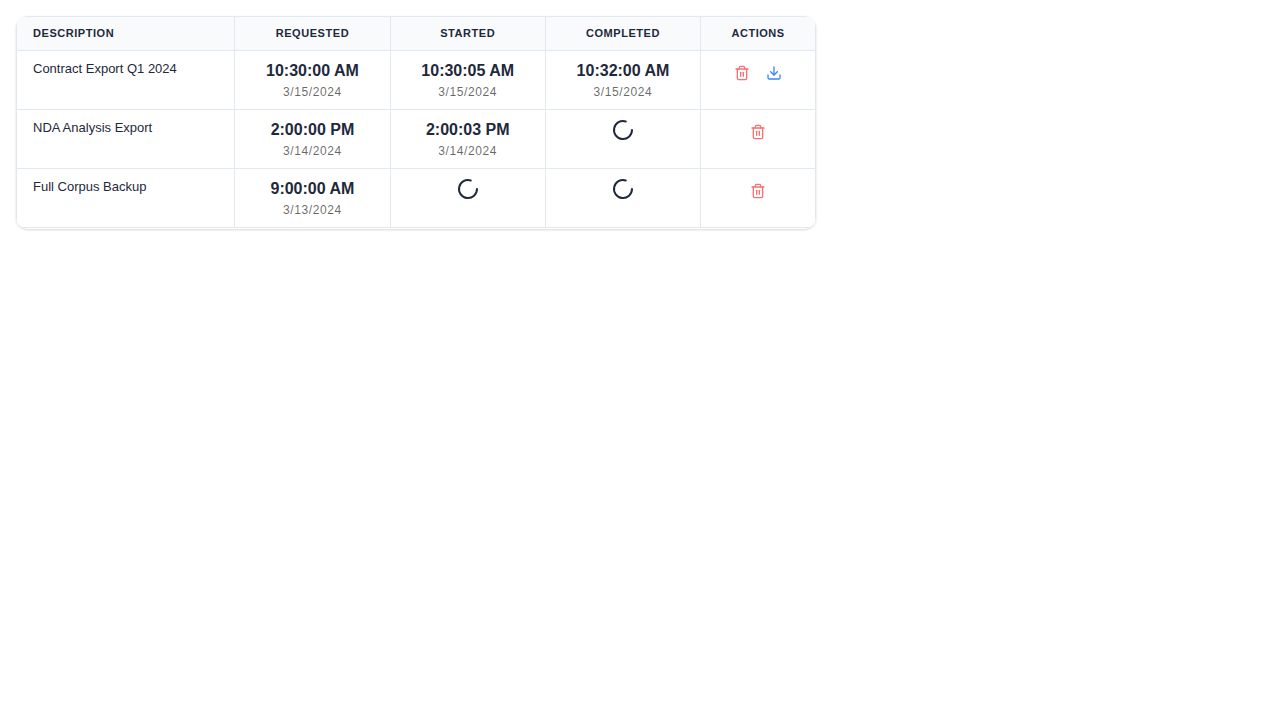
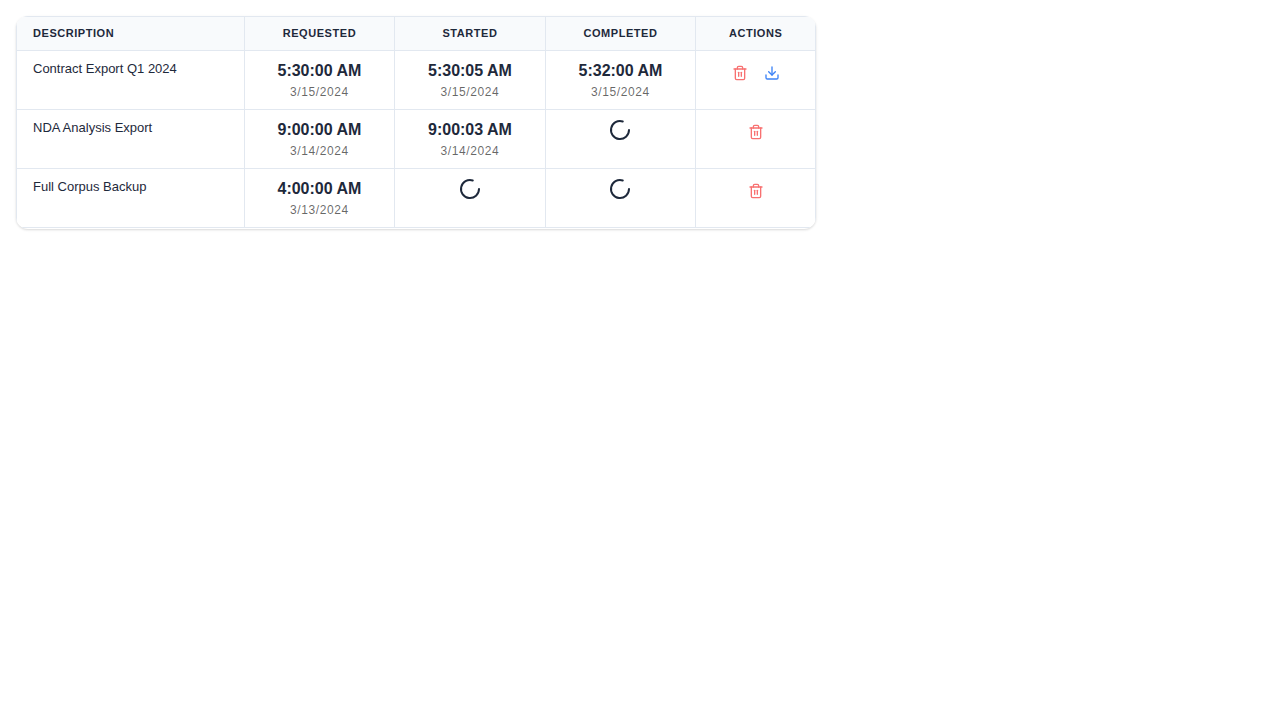
Address review: collapse multi-line comments, fix loading-overlay test, fix post-merge TS
CLAUDE.md prohibits multi-line comment blocks. Collapse the duplicated 5-line
networkStatus JSDoc on AnalysesCards, CorpusListView, DocumentCards, ExtractCards,
ExportList to one line each, FetchMoreFooter component JSDoc and the
FetchMoreFooterHarness test wrapper JSDoc to one line, and the 4-line JSX
comment over DocumentCards' LoadingOverlay to one line.

ExportList.ct.tsx 'shows loading overlay when loading' was passing
loading=true alongside the 3-item default fixture, which no longer satisfies
the new `loading && itemCount === 0` gate. Split into two tests: one for
the initial-load case (items=[]) and one negative test verifying that a
refetch with items present does NOT cover the rows.

Consolidate the duplicate ExportObject / PageInfo imports in ExportList.tsx
that the review flagged.

useTabVisibilityRefresh.test.ts: same renderHook initialProps fix already
applied on PR 1586 — the merge of main into this branch surfaced the
existing TS error that pre-merge CI on either branch did not see.

Includes the screenshot updates produced by the new "loading" test.

diff --git a/frontend/src/components/exports/ExportList.tsx b/frontend/src/components/exports/ExportList.tsx
@@ -1,7 +1,6 @@
 import { NetworkStatus } from "@apollo/client";
 import { Table } from "@os-legal/ui";
-import { ExportObject } from "../../types/graphql-api";
-import { PageInfo } from "../../types/graphql-api";
+import { ExportObject, PageInfo } from "../../types/graphql-api";
 import { FetchMoreOnVisible } from "../widgets/infinite_scroll/FetchMoreOnVisible";
 import { FetchMoreFooter } from "../widgets/infinite_scroll/FetchMoreFooter";
 import { ExportItemRow } from "./ExportItemRow";
@@ -11,11 +10,7 @@ interface ExportListProps {
   items: ExportObject[] | undefined;
   pageInfo: PageInfo | undefined;
   loading: boolean;
-  /**
-   * Apollo `networkStatus` from the parent's `useQuery`. When provided, the
-   * footer spinner is shown only while a `fetchMore` is in flight (status 3),
-   * not on background `cache-and-network` refetches.
-   */
+  /** NetworkStatus from useQuery. When omitted, footer falls back to `loading && hasNextPage`. */
   networkStatus?: NetworkStatus;
   style?: Record<string, any>;
   fetchMore: (args?: any) => void | any;
@@ -66,7 +61,7 @@ export function ExportList({
     <div
       style={{ ...styles.container, ...(style || {}), position: "relative" }}
     >
-      {/* Cover the table only on the initial load — fetchMore keeps existing rows visible. */}
+      {/* Initial-load only — refetches/deletes/fetchMore keep existing rows visible (callers needing a full block during deletes should layer their own overlay). */}
       <LoadingOverlay
         active={loading && itemCount === 0}
         content="Loading Exports..."

diff --git a/frontend/tests/ExportList.ct.tsx b/frontend/tests/ExportList.ct.tsx
@@ -73,14 +73,37 @@ test.describe("ExportList", () => {
     await component.unmount();
   });
 
-  test("shows loading overlay when loading", async ({ mount, page }) => {
-    const component = await mount(<ExportListTestWrapper loading={true} />);
+  test("shows loading overlay on initial load (no items yet)", async ({
+    mount,
+    page,
+  }) => {
+    // The overlay covers the table only when ``loading && itemCount === 0``
+    // — fetchMore keeps existing rows visible without dimming them.
+    const component = await mount(
+      <ExportListTestWrapper items={[]} loading={true} />
+    );
 
     await expect(page.locator("text=Loading Exports...")).toBeVisible({
       timeout: 5000,
     });
 
     await docScreenshot(page, "exports--list--loading");
+    await component.unmount();
+  });
+
+  test("does not cover existing rows during fetchMore (loading=true with items)", async ({
+    mount,
+    page,
+  }) => {
+    // When rows are already on screen, a refetch / fetchMore must not paint
+    // the modal overlay over them; the FetchMoreFooter spinner takes over.
+    const component = await mount(<ExportListTestWrapper loading={true} />);
+
+    await expect(page.locator("text=Contract Export Q1 2024")).toBeVisible({
+      timeout: 5000,
+    });
+    await expect(page.locator("text=Loading Exports...")).not.toBeVisible();
+
     await component.unmount();
   });
 });

diff --git a/frontend/src/components/documents/DocumentCards.tsx b/frontend/src/components/documents/DocumentCards.tsx
@@ -248,11 +248,7 @@ interface DocumentCardProps {
   items: DocumentType[];
   pageInfo: PageInfo | undefined;
   loading: boolean;
-  /**
-   * Apollo `networkStatus` from the parent's `useQuery`. When provided, the
-   * footer spinner is shown only while a `fetchMore` is in flight (status 3),
-   * not on background `cache-and-network` refetches.
-   */
+  /** NetworkStatus from useQuery. When omitted, footer falls back to `loading && hasNextPage`. */
   networkStatus?: NetworkStatus;
   loading_message: string;
   onShiftClick?: (document: DocumentType) => void;
@@ -381,10 +377,7 @@ export const DocumentCards = ({
           </DropZoneContent>
         </DropZoneOverlay>
       )}
-      {/* Cover the grid only on the initial load — fetchMore keeps existing rows visible.
-          We gate on `showEmptyState` (no docs *and* no folders) rather than `items.length === 0`
-          because folder rows are rendered via `prefixItems` and the grid is non-empty whenever
-          they're present, even before any documents arrive. */}
+      {/* Initial-load overlay — `showEmptyState` (no docs and no folders) is the right gate because `prefixItems` folder rows keep the grid non-empty before any docs arrive. */}
       <LoadingOverlay
         active={loading && showEmptyState}
         size="large"

diff --git a/frontend/src/components/corpuses/CorpusListView.tsx b/frontend/src/components/corpuses/CorpusListView.tsx
@@ -324,12 +324,7 @@ interface CorpusListViewProps {
   corpuses: CorpusType[] | null;
   pageInfo: PageInfo | undefined;
   loading: boolean;
-  /**
-   * Apollo `networkStatus` from the parent's `useQuery`. When provided, the
-   * footer spinner is shown only while a `fetchMore` is in flight (status 3),
-   * not on background `cache-and-network` refetches. Required for the parent
-   * query to use `notifyOnNetworkStatusChange: true`.
-   */
+  /** NetworkStatus from useQuery. When omitted, footer falls back to `loading && hasNextPage`. */
   networkStatus?: NetworkStatus;
   fetchMore: (args?: any) => void | any;
   onCreateCorpus: () => void;

diff --git a/frontend/tests/FetchMoreFooterTestWrapper.tsx b/frontend/tests/FetchMoreFooterTestWrapper.tsx
@@ -7,14 +7,7 @@ interface HarnessProps {
   "data-testid"?: string;
 }
 
-/**
- * Test wrapper for FetchMoreFooter.
- *
- * The Playwright CT hook already provides JotaiProvider, ApolloProvider,
- * ThemeProvider, and allStyles injection, so we render the component
- * directly inside a sized container that mirrors how it appears at the
- * bottom of an infinite-scroll list.
- */
+/** Test harness mirroring how FetchMoreFooter renders at the bottom of an infinite-scroll list. */
 export const FetchMoreFooterHarness: React.FC<HarnessProps> = ({
   visible,
   message = "Loading more documents…",

diff --git a/frontend/src/components/analyses/AnalysesCards.tsx b/frontend/src/components/analyses/AnalysesCards.tsx
@@ -33,11 +33,7 @@ interface AnalysesCardsProps {
   opened_corpus: CorpusType | null;
   pageInfo: PageInfo | undefined | null;
   loading: boolean;
-  /**
-   * Apollo `networkStatus` from the parent's `useQuery`. When provided, the
-   * footer spinner is shown only while a `fetchMore` is in flight (status 3),
-   * not on background `cache-and-network` refetches.
-   */
+  /** NetworkStatus from useQuery. When omitted, footer falls back to `loading && hasNextPage`. */
   networkStatus?: NetworkStatus;
   loading_message: string;
   fetchMore: (args?: any) => void | any;

diff --git a/frontend/src/components/extracts/ExtractCards.tsx b/frontend/src/components/extracts/ExtractCards.tsx
@@ -64,11 +64,7 @@ interface ExtractCardsProps {
   opened_corpus: CorpusType | null;
   pageInfo: PageInfo | undefined;
   loading: boolean;
-  /**
-   * Apollo `networkStatus` from the parent's `useQuery`. When provided, the
-   * footer spinner is shown only while a `fetchMore` is in flight (status 3),
-   * not on background `cache-and-network` refetches.
-   */
+  /** NetworkStatus from useQuery. When omitted, footer falls back to `loading && hasNextPage`. */
   networkStatus?: NetworkStatus;
   loading_message: string;
   fetchMore: (args?: any) => void | any;

diff --git a/frontend/src/components/widgets/infinite_scroll/FetchMoreFooter.tsx b/frontend/src/components/widgets/infinite_scroll/FetchMoreFooter.tsx
@@ -32,12 +32,7 @@ interface FetchMoreFooterProps {
   "data-testid"?: string;
 }
 
-/**
- * Unobtrusive footer-pinned spinner shown beneath an infinite-scroll list while
- * a `fetchMore` request is in flight. Pairs with `FetchMoreOnVisible` to give
- * users feedback during pagination without dimming or covering the rows that
- * have already rendered.
- */
+/** Footer-pinned spinner shown beneath an infinite-scroll list during fetchMore. */
 export const FetchMoreFooter: React.FC<FetchMoreFooterProps> = ({
   visible,
   message,

diff --git a/frontend/src/hooks/__tests__/useTabVisibilityRefresh.test.ts b/frontend/src/hooks/__tests__/useTabVisibilityRefresh.test.ts
@@ -115,7 +115,7 @@ describe("useTabVisibilityRefresh", () => {
 
     const { rerender } = renderHook(
       ({ fns }: { fns: Array<() => void> }) => useTabVisibilityRefresh(fns),
-      { fns: [first] }
+      { initialProps: { fns: [first] } }
     );
 
     rerender({ fns: [second] });
